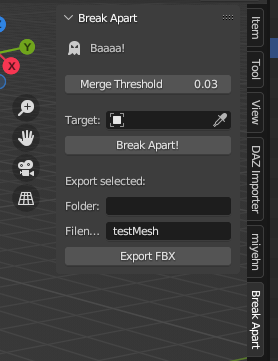
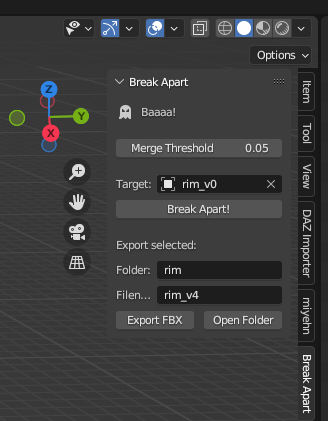
export doc

diff --git a/addons/break_apart.py b/addons/break_apart.py
@@ -7,6 +7,7 @@ bl_info = {
 }
 
 import bpy
+import os
 
 #=========================== OPERATORS =============================
 
@@ -117,21 +118,28 @@ class BA_OT_break_apart(bpy.types.Operator):
 		return {'FINISHED'}
 
 
+class BA_OT_open_export_folder(bpy.types.Operator):
+	bl_idname="ba.open_export_folder"
+	bl_label="Open Folder"
+	bl_options={'REGISTER', 'UNDO'}
+
+	def execute(self, context):
+		folder = BA_OT_export_fbx.getExportFolder()
+		if not os.path.exists(folder):
+			self.report({'WARNING'}, "This folder doesn't exist yet.")
+			return {'FINISHED'}
+
+		os.startfile(folder)
+		return {'FINISHED'}
+
+
 class BA_OT_export_fbx(bpy.types.Operator):
 	bl_idname="ba.export_fbx"
 	bl_label="Export FBX"
 	bl_options={'REGISTER', 'UNDO'}
 
-	@classmethod
-	def description(cls, context, properties):
-		return "Process and export selected objects to fbx"
-
-	def execute(self, context):
-
-		if not bpy.data.is_saved:
-			self.report({'WARNING'}, "export failed: .blend file is not saved to disc yet")
-			return {'FINISHED'}
-
+	@staticmethod
+	def getExportFolder():
 		# see: https://docs.blender.org/api/current/bpy.ops.export_scene.html
 		directory = bpy.context.scene.baProps.exportDirectory
 		lastChar = ''
@@ -143,9 +151,26 @@ class BA_OT_export_fbx(bpy.types.Operator):
 		if lastChar == '/' or lastChar == '\\':
 			directory = directory[:-1]
 
-		filename = bpy.context.scene.baProps.exportFilename
+		fullDirectory = bpy.path.abspath("//" + directory)
+		return fullDirectory
 
-		fullPath=bpy.path.abspath("//" + directory + '\\' + filename + '.fbx')
+	@classmethod
+	def description(cls, context, properties):
+		return "Process and export selected objects to fbx"
+
+	def execute(self, context):
+
+		if not bpy.data.is_saved:
+			self.report({'WARNING'}, "export failed: .blend file is not saved to disc yet")
+			return {'FINISHED'}
+
+		fullDirectory = BA_OT_export_fbx.getExportFolder()
+
+		if not os.path.exists(fullDirectory):
+			os.makedirs(fullDirectory)
+
+		filename = bpy.context.scene.baProps.exportFilename
+		fullPath = fullDirectory + '\\' + filename + '.fbx'
 
 		# actually operate on the scene:
 
@@ -176,7 +201,6 @@ class BA_OT_export_fbx(bpy.types.Operator):
 		# now: actually export...
 		bpy.ops.export_scene.fbx(
 			filepath=fullPath,
-			check_existing=True,
 			use_selection=True,
 			object_types={'EMPTY', 'MESH'},
 			use_triangles=True
@@ -256,6 +280,7 @@ class BA_PT_tools_panel(bpy.types.Panel):
 
 		row = self.layout.row()
 		row.operator("ba.export_fbx")
+		row.operator("ba.open_export_folder")
 
 #=========================== KEYMAPS ===============================
 
@@ -300,6 +325,7 @@ classes = (
 	BA_OT_merge_by_ba_threshold,
 	BA_OT_break_apart,
 	BA_OT_export_fbx,
+	BA_OT_open_export_folder,
 	BA_PT_tools_panel
 )
 

diff --git a/README.md b/README.md
@@ -10,11 +10,11 @@ It's the threshold used for when you press shift + S to merge vertices by distan
 
 ## Break Apart
 
-Once the addon is installed,
+Set the object to break apart as "Target",
 
- - set the object to break apart as "Target",
- - select the cookie cutter object,
- - hit the "break apart" button.
+Select the cookie cutter object,
+
+Hit the "break apart" button.
 
 [Example video](media/break.mp4)
 
@@ -22,7 +22,14 @@ Btw [here](media/boulder_cutter.fbx) is a boulder mesh I made.
 
 ## Export FBX
 
-To be documented
+Set the output folder (relative to the current .blend file) and fbx filename (without extension). 
+
+Select the mesh(es) you wish to export.
+ - Note that the last selected mesh (aka active object) will be used to determine he anchor position of exported fbx.
+
+Hit "Export FBX".
+ - If you had only one mesh selected, it will be renamed to the filename
+ - If you had multiple meshes, an plain axes node called your filename will be created, with all your meshes as its children.
 
 ## Hotkeys
 
